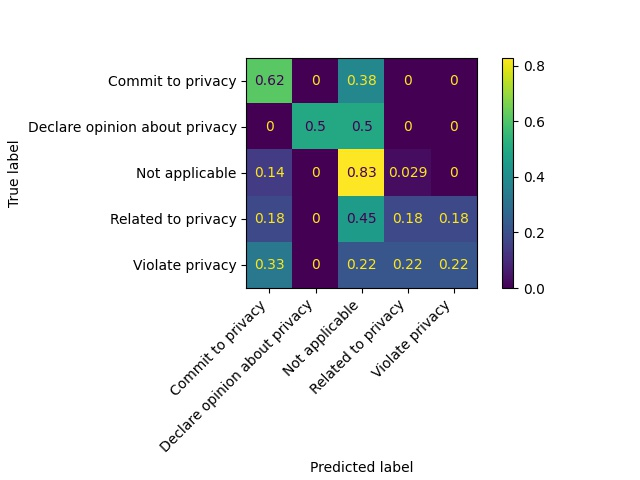
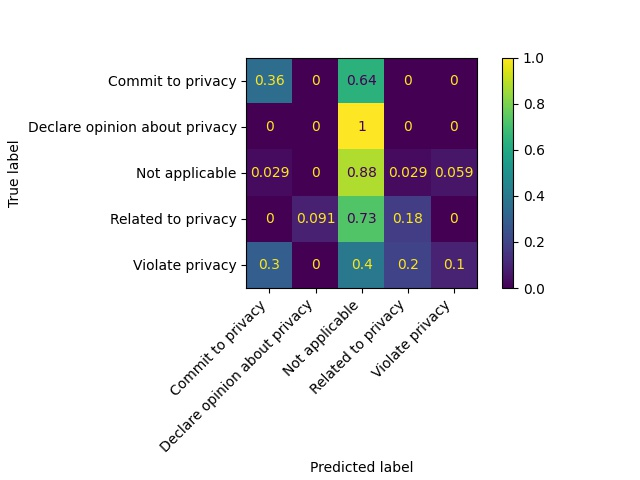
tested ai classifier on testset

diff --git a/AIclassifier.py b/AIclassifier.py
@@ -1,7 +1,7 @@
 from sklearn.ensemble import AdaBoostClassifier
 from sklearn import metrics
 from utils import clean_corpus, reconstruct_hyphenated_words, write_output_stats_file, write_predictions_file, create_confusion_matrix
-from partition import sents_train, labels_train, sents_dev, labels_dev
+from partition import sents_train, labels_train, sents_dev, labels_dev, sents_test, labels_test
 import re
 import spacy
 import numpy
@@ -114,6 +114,7 @@ print("Length of the dictionary of word representations:",len(words_to_numbers))
 #print(sents_train)
 train_vectors_list = create_vectors_list(sents_train)
 dev_vectors_list = create_vectors_list(sents_dev)
+test_vectors_list = create_vectors_list(sents_test)
 
 # COUNT STATISTICS - HOW MANY WORDS WERE CONSIDERED UNK, AND HOW MANY OF EACH WORD
 
@@ -125,11 +126,13 @@ dev_vectors_list = create_vectors_list(sents_dev)
 
 train_matrix_array = format_sentVector_to_SparseMatrix(train_vectors_list)
 dev_matrix_array = format_sentVector_to_SparseMatrix(dev_vectors_list)
+test_matrix_array = format_sentVector_to_SparseMatrix(test_vectors_list)
 
 # FLAG - CHECK IF SPARSE MATRIX REPRESENTATION WAS DONE CORRECTLY
 
 train_labels_primary = create_labels_array(labels_train)
 dev_labels_primary = create_labels_array(labels_dev)
+test_labels_primary = create_labels_array(labels_test)
 
 # FLAG - ENSURE THAT LABELS LIST ARE CORRECTLY MADE
 
@@ -144,7 +147,7 @@ adaclassifier = AdaBoostClassifier(n_estimators=50, learning_rate=1) # n_est 25,
 model = adaclassifier.fit(train_matrix_array, train_labels_primary) 
 
 # Predicting
-predictions = model.predict(dev_matrix_array)
+predictions = model.predict(test_matrix_array)
 
 # casually printing results
 #for sent, pred in zip(sents_train,predictions):
@@ -152,24 +155,24 @@ predictions = model.predict(dev_matrix_array)
 #print("Predictions:\n", predictions)
 
 # Confusion matrix
-dev_list = dev_labels_primary.tolist()
+test_list = test_labels_primary.tolist()
 pred_list = [pred for pred in predictions]
 labels=[1,3,5,4,2]
 path='output/AI Classifier/1Label_confusion_matrix_NormTrue.jpg'
 display_labels=['Commit to privacy', 'Declare opinion about privacy','Not applicable','Related to privacy','Violate privacy']
-create_confusion_matrix(dev_list, pred_list, "true", path, labels, display_labels)
+create_confusion_matrix(test_list, pred_list, "true", path, labels, display_labels)
 path='output/AI Classifier/1Label_confusion_matrix_NonNorm.jpg'
-create_confusion_matrix(dev_list, pred_list, None, path, labels, display_labels)
+create_confusion_matrix(test_list, pred_list, None, path, labels, display_labels)
 
 # FLAG - CHECK IF CONFUSION MATRIX IS CORRECT FOR EVERY LABEL
 
 # HELP - Predictions are changing... - confusion matrix, and measures - NOT ANYMORE :D
 
-path='output/AI Classifier/1labelPredictionsStats.txt'
+path='output/AI Classifier/1labelPredictionsStatsTest.txt'
 os.makedirs(os.path.dirname(path), exist_ok=True)
 with open(path, 'w') as file:
     print("Performance measures\n", file=file)
-write_output_stats_file(path, "Dev", dev_labels_primary, predictions)
+write_output_stats_file(path, "Test", test_labels_primary, predictions, display_labels)
 #write_output_stats_file('output/Simple Classifier/1labelPredictionsStats_Test.txt', "Test", test_ref_primary_label, test_pred_first_label)
 
 # TO DO: WRITE PREDICTIONS JSON FILE -> LEARN HOW TO TRANSFORM ADABOOST OUTPUT IN DICT ( LIST OF ({"text":sentence['text'], "label":label}))

diff --git a/utils.py b/utils.py
@@ -63,7 +63,7 @@ def clean_corpus(corpus):
 # For both classifiers
 
 # WRITE OUTPUT STATISTICS FILE
-def write_output_stats_file(path, name, ref_labels, pred_labels):
+def write_output_stats_file(path, name, ref_labels, pred_labels, labels):
     #path = 'output/Simple Classifier/1labelPredictionsStats_'+name+'.txt'
     #os.makedirs(os.path.dirname(path), exist_ok=True)
     with open(path, 'a') as file:
@@ -71,14 +71,14 @@ def write_output_stats_file(path, name, ref_labels, pred_labels):
         #print("Accuracy:",round( accuracy_score( ref_labels, pred_labels), 3), file=file)
         #print("Precision micro:",round( precision_score( ref_labels, pred_labels, average="micro"), 3), file=file)
         print("Precision macro:",round( precision_score( ref_labels, pred_labels, average="macro"),3), file=file)
-        print("Precision Individually:", numpy.round (precision_score( ref_labels, pred_labels, average=None),3), file=file)
+        print("Precision Individually:", numpy.round (precision_score( ref_labels, pred_labels, average=None, labels=labels),3), file=file)
         #print("Recall micro:",round( recall_score( ref_labels, pred_labels, average="micro"),3), file=file)
         print("Recall macro:",round( recall_score( ref_labels, pred_labels, average="macro"),3), file=file)
-        print("Recall Individually:", numpy.round(recall_score( ref_labels, pred_labels, average=None),3), file=file)
+        print("Recall Individually:", numpy.round(recall_score( ref_labels, pred_labels, average=None, labels=labels),3), file=file)
         print("F1 Score micro:",round( f1_score( ref_labels, pred_labels, average="micro"),3), file=file)
         print("F1 Score macro:",round( f1_score( ref_labels, pred_labels, average="macro"),3), file=file)
-        print("F1 Score weighted:",round( f1_score(ref_labels, pred_labels, average="weighted"),3), file=file)
-        print("F1 Score Individually:", numpy.round(f1_score(ref_labels, pred_labels, average=None),3), file=file)
+        print("F1 Score weighted:",round( f1_score(ref_labels, pred_labels, average="weighted", ),3), file=file)
+        print("F1 Score Individually:", numpy.round(f1_score(ref_labels, pred_labels, average=None, labels=labels),3), file=file)
         print("\n", file=file)
 
 # WRITE OUTPUT PREDICTIONS IN JSON FORMAT
